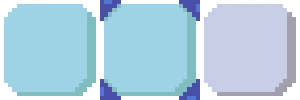
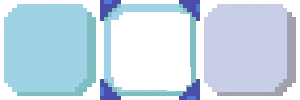
优化了渲染过程
优化了渲染过程

Changed region(s): [[0.36, 0.12, 0.66, 0.93]]

diff --git a/src/main.cpp b/src/main.cpp
@@ -347,43 +347,34 @@ Uint32 callback(Uint32 interval, void* param)
 		case 3:crack_texture.render(blockMouseX*50 + deltaX, blockMouseY*50 + deltaY, crackClip3, 0, NULL, SDL_FLIP_NONE, 2); break;
 		}
 	}
-
-	for (int w = 0; w < 10; w++)
-	{
-		pocketUI_texture.render(SCREEN_WIDTH / 2 - 250 + 50*w, SCREEN_HEIGHT - 60, generalPocketClip, 0, NULL, SDL_FLIP_NONE,2);
-	}
-	if (pocketNumber > 0 && pocketNumber < 11)
-	{
-		pocketUI_texture.render(SCREEN_WIDTH / 2 - 250 + 50*(pocketNumber - 1), SCREEN_HEIGHT - 60, highLightPocketClip, 0, NULL, SDL_FLIP_NONE,2);
-	}
 	
 	for (int p = 0; p < 10; p++)
 	{
+		pocketUI_texture.render(SCREEN_WIDTH / 2 - 250 + 50 * p, SCREEN_HEIGHT - 60, generalPocketClip, 0, NULL, SDL_FLIP_NONE, 2);
+
 		if (mainPocket.pocketData[1][p])
 		{
 			SDL_Rect* currentPocketClip = &mainMap.newMap_clips[mainPocket.pocketData[0][p]];
 			mainMap.newMap_texture.render(SCREEN_WIDTH / 2 - 250 + 50 * p + 12, SCREEN_HEIGHT - 60 + 12, currentPocketClip, 0, NULL, SDL_FLIP_NONE, 4);
 		}
-	}
-
-	for (int m = 0; m < 10; m++)
-	{
-		if (mainPocket.pocketData[1][m])
+		if (mainPocket.pocketData[1][p])
 		{
-			gTextTexture1[m].render(SCREEN_WIDTH / 2 - 250 + 26 + 50 * m, SCREEN_HEIGHT - 60 + 18, 0, 0, NULL, SDL_FLIP_NONE, 1);
-			gTextTexture2[m].render(SCREEN_WIDTH / 2 - 250 + 24 + 50 * m, SCREEN_HEIGHT - 60 + 16, 0, 0, NULL, SDL_FLIP_NONE, 1);
+			gTextTexture1[p].render(SCREEN_WIDTH / 2 - 250 + 26 + 50 * p, SCREEN_HEIGHT - 60 + 18, 0, 0, NULL, SDL_FLIP_NONE, 1);
+			gTextTexture2[p].render(SCREEN_WIDTH / 2 - 250 + 24 + 50 * p, SCREEN_HEIGHT - 60 + 16, 0, 0, NULL, SDL_FLIP_NONE, 1);
 		}
-	}
-	for (int p = 0; p < 10; p++)
-	{
 		for (int q = 0; q < 3; q++)
 		{
 			if (mainPocket.isOpened)
 			{
-				pocketUI_texture.render(20 + 50 * p, 20+50*q, backpackPocketClip, 0, NULL, SDL_FLIP_NONE, 2);
+				pocketUI_texture.render(20 + 50 * p, 20 + 50 * q, backpackPocketClip, 0, NULL, SDL_FLIP_NONE, 2);
 			}
 		}
 	}
+	if (pocketNumber > 0 && pocketNumber < 11)
+	{
+		pocketUI_texture.render(SCREEN_WIDTH / 2 - 250 + 50 * (pocketNumber - 1), SCREEN_HEIGHT - 60, highLightPocketClip, 0, NULL, SDL_FLIP_NONE, 2);
+	}
+
 	if (mainPocket.isOpened)
 	{
 		pocketUI_texture.render(20 + 50 * 9, 20 + 50 * 3, backpackPocketClip, 0, NULL, SDL_FLIP_NONE, 2);
@@ -394,13 +385,10 @@ Uint32 callback(Uint32 interval, void* param)
 				SDL_Rect* currentPocketClip = &mainMap.newMap_clips[mainPocket.pocketData[0][p]];
 				mainMap.newMap_texture.render(20 + 50 * (p % 10) + 12, 20 + 50 * (p/10-1) + 12, currentPocketClip, 0, NULL, SDL_FLIP_NONE, 4);
 			}
-		}
-		for (int m = 10; m < 40; m++)
-		{
-			if (mainPocket.pocketData[1][m])
+			if (mainPocket.pocketData[1][p])
 			{
-				gTextTexture1[m].render(20 + 26 + 50 * (m%10), 20 + 18 + 50 * (m / 10 - 1), 0, 0, NULL, SDL_FLIP_NONE, 1);
-				gTextTexture2[m].render(20 + 24 + 50 * (m%10), 20 + 16 + 50 * (m / 10 - 1), 0, 0, NULL, SDL_FLIP_NONE, 1);
+				gTextTexture1[p].render(20 + 26 + 50 * (p % 10), 20 + 18 + 50 * (p / 10 - 1), 0, 0, NULL, SDL_FLIP_NONE, 1);
+				gTextTexture2[p].render(20 + 24 + 50 * (p % 10), 20 + 16 + 50 * (p / 10 - 1), 0, 0, NULL, SDL_FLIP_NONE, 1);
 			}
 		}
 		rubbish_texture.render(20 + 50 * 9+12, 20 + 50 * 3+12, rubbish_clips, 0, NULL, SDL_FLIP_NONE, 4);
